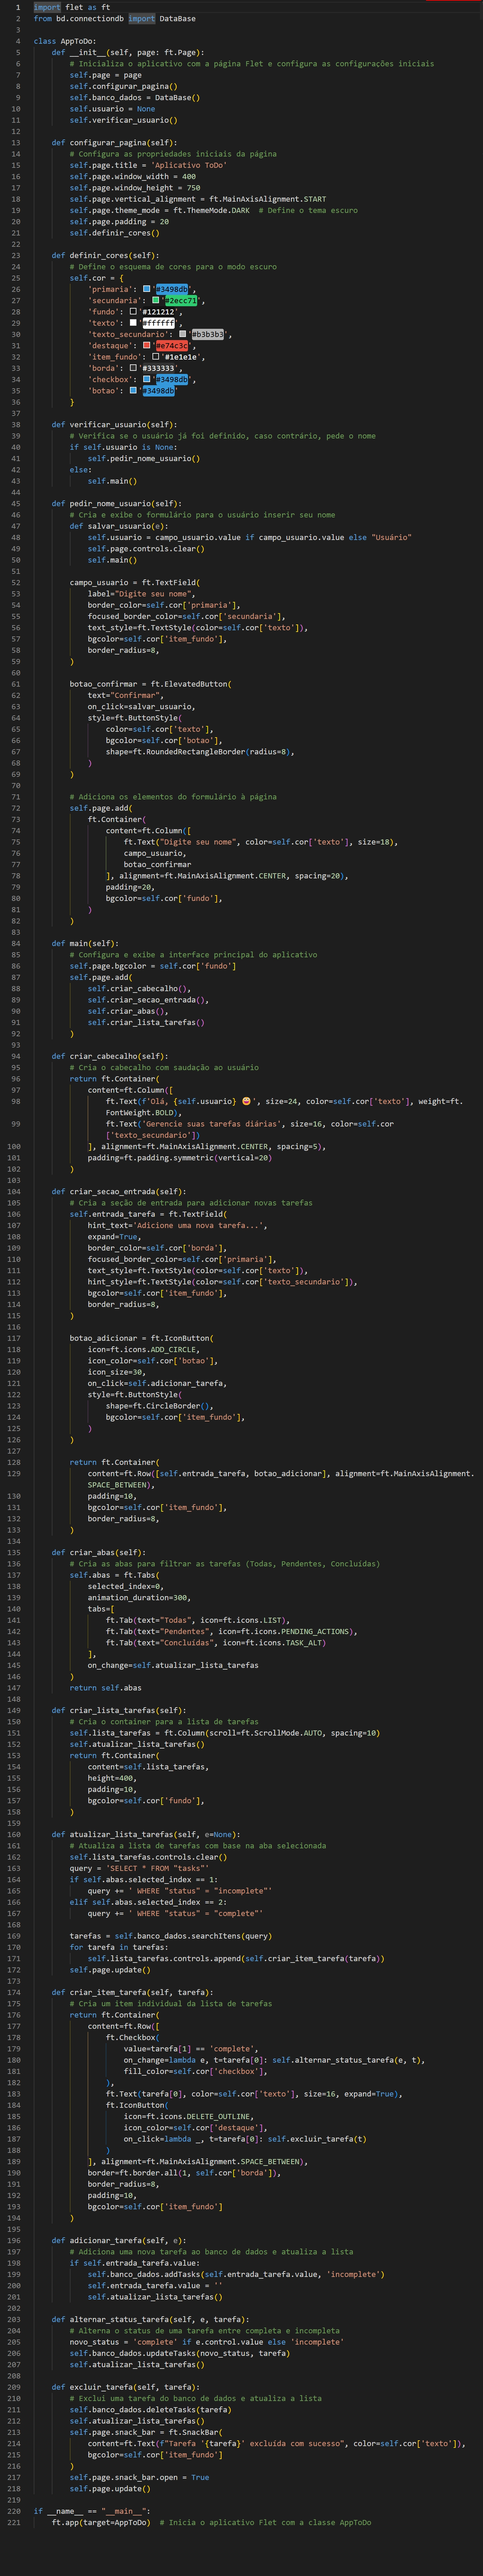
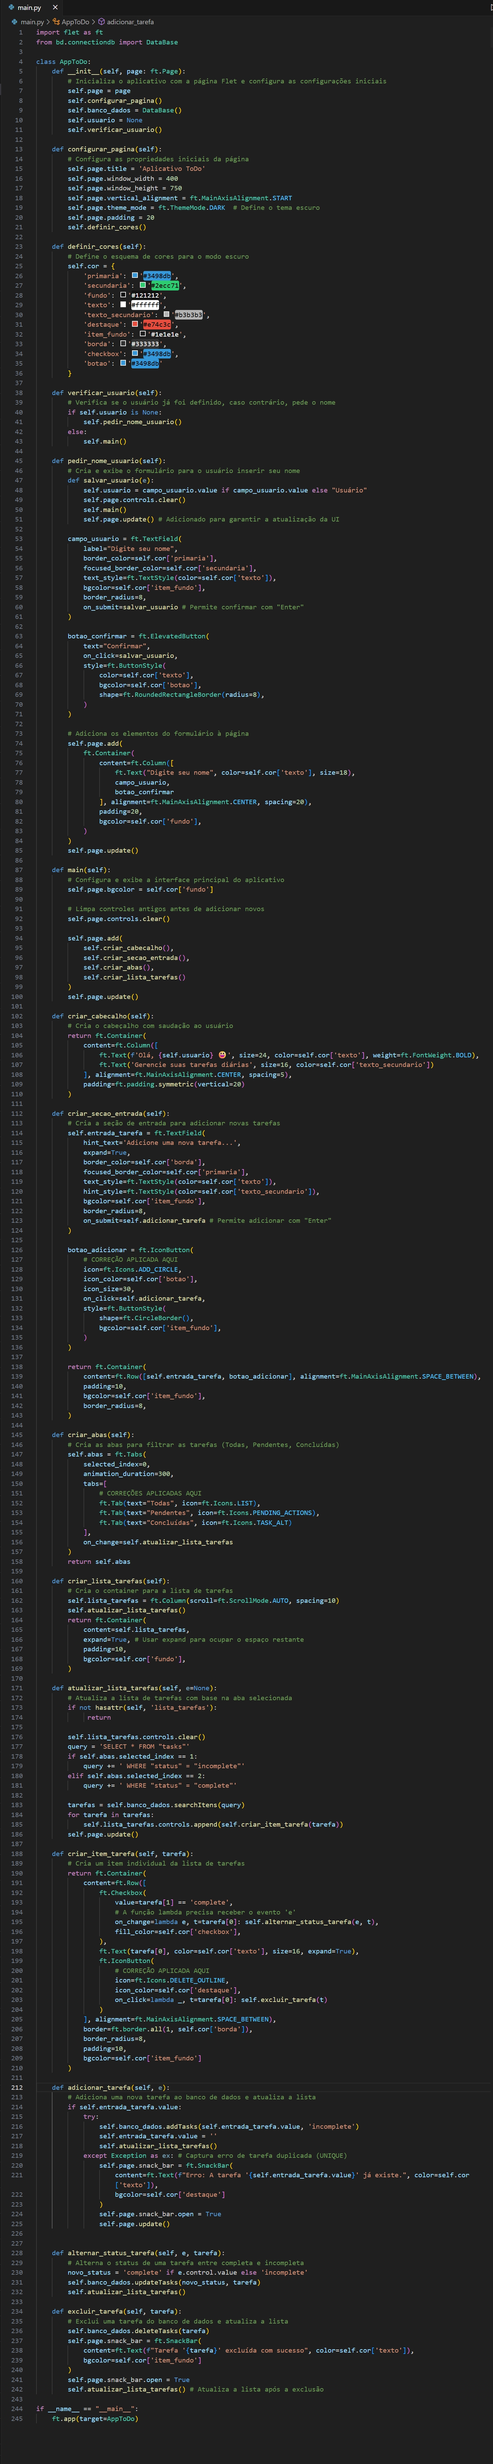
Finalizado

Changed region(s): [[0.0, 0.0, 0.6215, 0.9986], [0.5593, 0.0624, 0.5904, 0.0936]]

diff --git a/main.py b/main.py
@@ -1,1 +1,247 @@
-# Digitar (Aqui)
+import flet as ft
+from bd.connectiondb import DataBase
+
+
+class AppToDo:
+    def __init__(self, page: ft.Page):
+        # Inicializa o aplicativo com a página Flet e configura as configurações iniciais
+        self.page = page
+        self.configurar_pagina()
+        self.banco_dados = DataBase()
+        self.usuario = None
+        self.verificar_usuario()
+
+    def configurar_pagina(self):
+        # Configura as propriedades iniciais da página
+        self.page.title = "Aplicativo ToDo"
+        self.page.window_width = 400
+        self.page.window_height = 750
+        self.page.vertical_alignment = ft.MainAxisAlignment.START
+        self.page.theme_mode = ft.ThemeMode.DARK  # Define o tema escuro
+        self.page.padding = 20
+        self.definir_cores()
+
+    def definir_cores(self):
+        # Define o esquema de cores para o modo escuro
+        self.cor = {
+            'primaria': '#3498db',
+            'secundaria': '#2ecc71',
+            'fundo': '#121212',
+            'texto': '#ffffff',
+            'texto_secundario': '#b3b3b3',
+            'destaque': '#e74c3c',
+            'item_fundo': '#1e1e1e',
+            'borda': '#333333',
+            'checkbox': '#3498db',
+            'botao': '#3498db'
+        }
+
+    def verificar_usuario(self):
+        # Verifica se o usuário já foi definido, caso contrário, pede o nome
+        if self.usuario is None:
+            self.pedir_nome_usuario()
+        else:
+            self.main()
+
+    def pedir_nome_usuario(self):
+        # Cria o conteúdo e formulário para o usuário inserir seu nome
+        def salvar_usuario(e):
+            self.usuario = campo_usuario.value if campo_usuario.value else "Usuário"
+            self.page.controls.clear()
+            self.main()
+            self.page.update() # Adicionado para garantir a atualização da UI
+
+        campo_usuario = ft.TextField(
+            label="Digite seu nome",
+            border_color=self.cor['primaria'],
+            focused_border_color=self.cor['secundaria'],
+            text_style=ft.TextStyle(color=self.cor['texto']),
+            bgcolor=self.cor['item_fundo'],
+            border_radius=8,
+            on_submit=salvar_usuario # Permite confirmar com "Enter"
+        )
+
+        botao_confirmar = ft.ElevatedButton(
+            text="Confirmar",
+            on_click=salvar_usuario,
+            style=ft.ButtonStyle(
+                color=self.cor['texto'],
+                bgcolor=self.cor['botao'],
+                shape=ft.RoundedRectangleBorder(radius=8),
+            )
+        )
+
+        # Adiciona os elementos do formulário à página
+        self.page.add(
+            ft.Container(
+                content=ft.Column([
+                    ft.Text("Digite seu nome", color=self.cor['texto'], size=18),
+                    campo_usuario,
+                    botao_confirmar
+                ], alignment=ft.MainAxisAlignment.CENTER, spacing=20),
+                padding=20,
+                bgcolor=self.cor['fundo'],
+            )
+        )
+        self.page.update()
+
+    def main(self):
+        # Configura e exibe a interface principal do aplicativo
+        self.page.bgcolor = self.cor['fundo']
+        
+        # Limpa controles antigos antes de adicionar novos
+        self.page.controls.clear()
+
+        self.page.add(
+            self.criar_cabecalho(),
+            self.criar_secao_entrada(),
+            self.criar_abas(),
+            self.criar_lista_tarefas()
+        )
+        self.page.update()
+
+    def criar_cabecalho(self):
+        # Cria o cabeçalho com saudação ao usuário
+        return ft.Container(
+            content=ft.Column([
+                ft.Text(f'Olá, {self.usuario} 😃', size=24, color=self.cor['texto'], weight=ft.FontWeight.BOLD),
+                ft.Text('Gerencie suas tarefas diárias', size=16, color=self.cor['texto_secundario'])
+            ], alignment=ft.MainAxisAlignment.CENTER, spacing=5),
+            padding=ft.padding.symmetric(vertical=20)
+        )
+
+    def criar_secao_entrada(self):
+        # Cria a seção de entrada para adicionar novas tarefas
+        self.entrada_tarefa = ft.TextField(
+            hint_text="Adicione uma nova tarefa...",
+            expand=True,
+            border_color=self.cor['borda'],
+            focused_border_color=self.cor['primaria'],
+            text_style=ft.TextStyle(color=self.cor['texto']),
+            hint_style=ft.TextStyle(color=self.cor['texto_secundario']),
+            bgcolor=self.cor['item_fundo'],
+            border_radius=8,
+            on_submit=self.adicionar_tarefa # Permite adicionar com "Enter"
+        )
+
+        botao_adicionar = ft.IconButton(
+            # CORREÇÃO APLICADA AQUI
+            icon=ft.Icons.ADD_CIRCLE,
+            icon_color=self.cor['botao'],
+            icon_size=30,
+            on_click=self.adicionar_tarefa,
+            style=ft.ButtonStyle(
+                shape=ft.CircleBorder(),
+                bgcolor=self.cor['item_fundo'],
+            )
+        )
+
+        return ft.Container(
+            content=ft.Row([self.entrada_tarefa, botao_adicionar], alignment=ft.MainAxisAlignment.SPACE_BETWEEN),
+            padding=10,
+            bgcolor=self.cor['item_fundo'],
+            border_radius=8,
+        )
+
+    def criar_abas(self):
+        # Cria as abas para filtrar as tarefas (Todas, Pendentes, Concluídas)
+        self.abas = ft.Tabs(
+            selected_index=0,
+            animation_duration=300,
+            tabs=[
+                # CORREÇÕES APLICADAS AQUI
+                ft.Tab(text="Todas", icon=ft.Icons.LIST),
+                ft.Tab(text="Pendentes", icon=ft.Icons.PENDING_ACTIONS),
+                ft.Tab(text="Concluídas", icon=ft.Icons.TASK_ALT)
+            ],
+            on_change=self.atualizar_lista_tarefas
+        )
+        return self.abas
+
+    def criar_lista_tarefas(self):
+        # Cria o container para a lista de tarefas
+        self.lista_tarefas = ft.Column(scroll=ft.ScrollMode.AUTO, spacing=10)
+        self.atualizar_lista_tarefas()
+        return ft.Container(
+            content=self.lista_tarefas,
+            expand=True, # Usar expand para ocupar o espaço restante
+            padding=10,
+            bgcolor=self.cor['fundo'],
+        )
+
+    def atualizar_lista_tarefas(self, e=None):
+        # Atualiza a lista de tarefas com base na aba selecionada
+        if not hasattr(self, 'lista_tarefas'):
+             return
+
+        self.lista_tarefas.controls.clear()
+        query = 'SELECT * FROM "tasks"'
+
+        if self.abas.selected_index == 1:
+            query += ' WHERE "status" = "incomplete"'
+        elif self.abas.selected_index == 2:
+            query += ' WHERE "status" = "complete"'
+
+        tarefas = self.banco_dados.searchItens(query)
+        for tarefa in tarefas:
+            self.lista_tarefas.controls.append(self.criar_item_tarefa(tarefa))
+        self.page.update()
+
+    def criar_item_tarefa(self, tarefa):
+        # Cria um item individual da lista de tarefas
+        return ft.Container(
+            content=ft.Row([
+                ft.Checkbox(
+                    value=tarefa[1] == 'complete',
+                    on_change=lambda e, t=tarefa[0]: self.alternar_status_tarefa(e, t),
+                    fill_color=self.cor['checkbox'],
+                ),
+                ft.Text(tarefa[0], color=self.cor['texto'], size=16, expand=True),
+                ft.IconButton(
+                    # CORREÇÃO APLICADA AQUI
+                    icon=ft.Icons.DELETE_OUTLINE,
+                    icon_color=self.cor['destaque'],
+                    on_click=lambda _, t=tarefa[0]: self.excluir_tarefa(t)
+                )
+            ], alignment=ft.MainAxisAlignment.SPACE_BETWEEN),
+            border=ft.border.all(1, self.cor['borda']),
+            border_radius=8,
+            padding=10,
+            bgcolor=self.cor['item_fundo']
+        )
+
+    def adicionar_tarefa(self, e):
+        # Adiciona uma nova tarefa ao banco de dados e atualiza a lista
+        if self.entrada_tarefa.value:
+            try:
+                self.banco_dados.addTasks(self.entrada_tarefa.value, 'incomplete')
+                self.entrada_tarefa.value = ''
+                self.atualizar_lista_tarefas()
+            except Exception as ex: # Captura erro de tarefa duplicada (UNIQUE)
+                self.page.snack_bar = ft.SnackBar(
+                    content=ft.Text(f"Erro: A tarefa '{self.entrada_tarefa.value}' já existe.", color=self.cor['texto']),
+                    bgcolor=self.cor['destaque']
+                )
+                self.page.snack_bar.open = True
+                self.page.update()
+
+
+    def alternar_status_tarefa(self, e, tarefa):
+        # Alterna o status de uma tarefa entre completa e incompleta
+        novo_status = 'complete' if e.control.value else 'incomplete'
+        self.banco_dados.updateTasks(novo_status, tarefa)
+        self.atualizar_lista_tarefas()
+
+    def excluir_tarefa(self, tarefa):
+        # Exclui uma tarefa do banco de dados e atualiza a lista
+        self.banco_dados.deleteTasks(tarefa)
+        self.atualizar_lista_tarefas()
+        self.page.snack_bar = ft.SnackBar(
+            content=ft.Text(f"Tarefa '{tarefa}' excluída com sucesso", color=self.cor['texto']),
+            bgcolor=self.cor['item_fundo']
+        )
+        self.page.snack_bar.open = True
+        self.atualizar_lista_tarefas() # Atualiza a lista após a exclusão
+
+if __name__ == "__main__":
+    ft.app(target=AppToDo)
